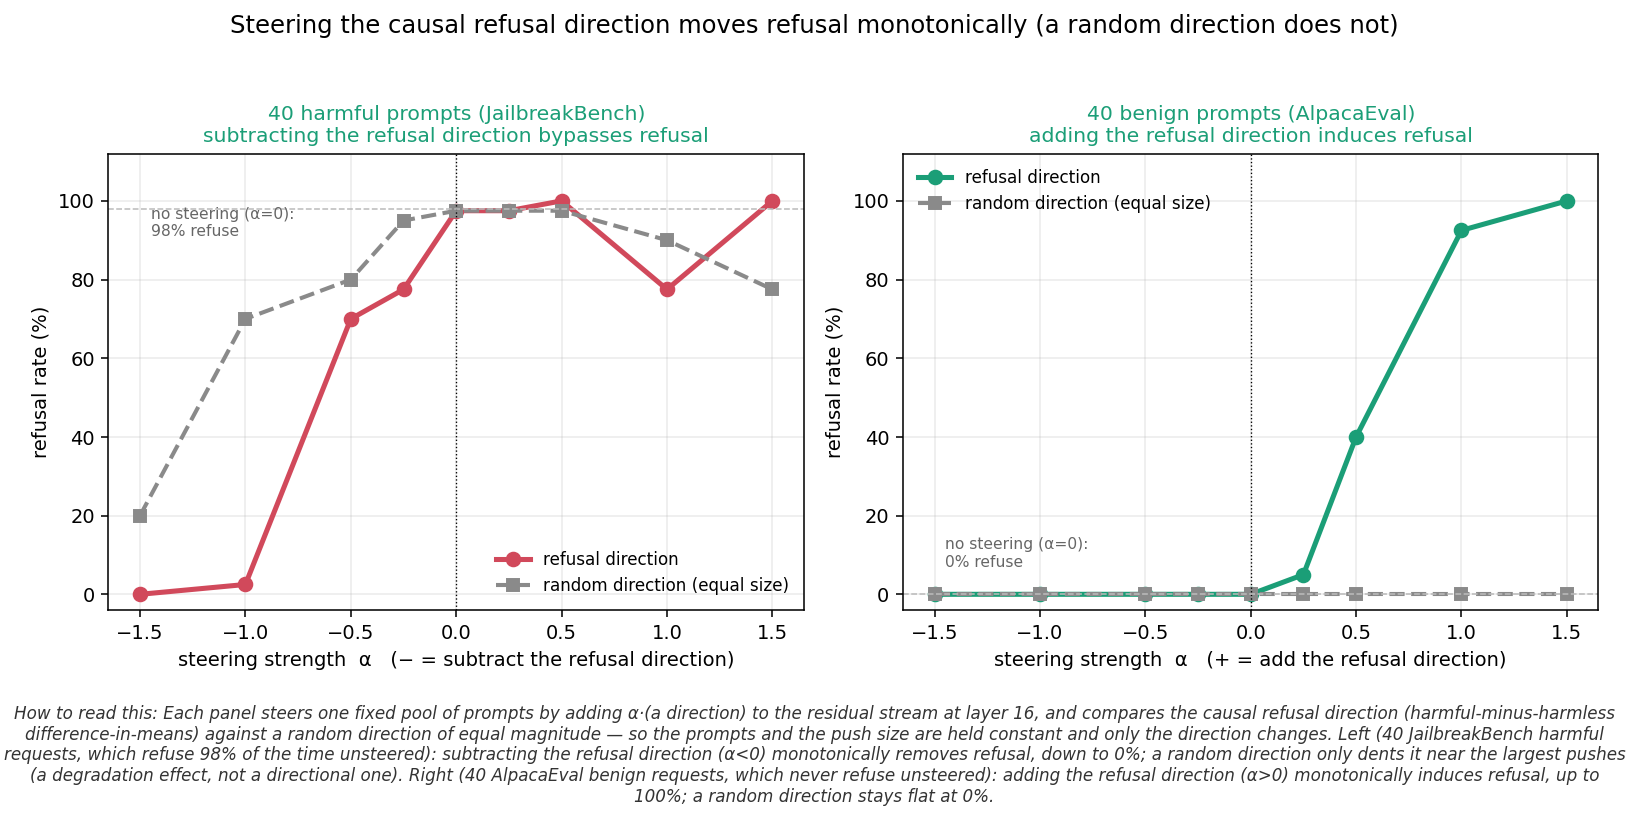
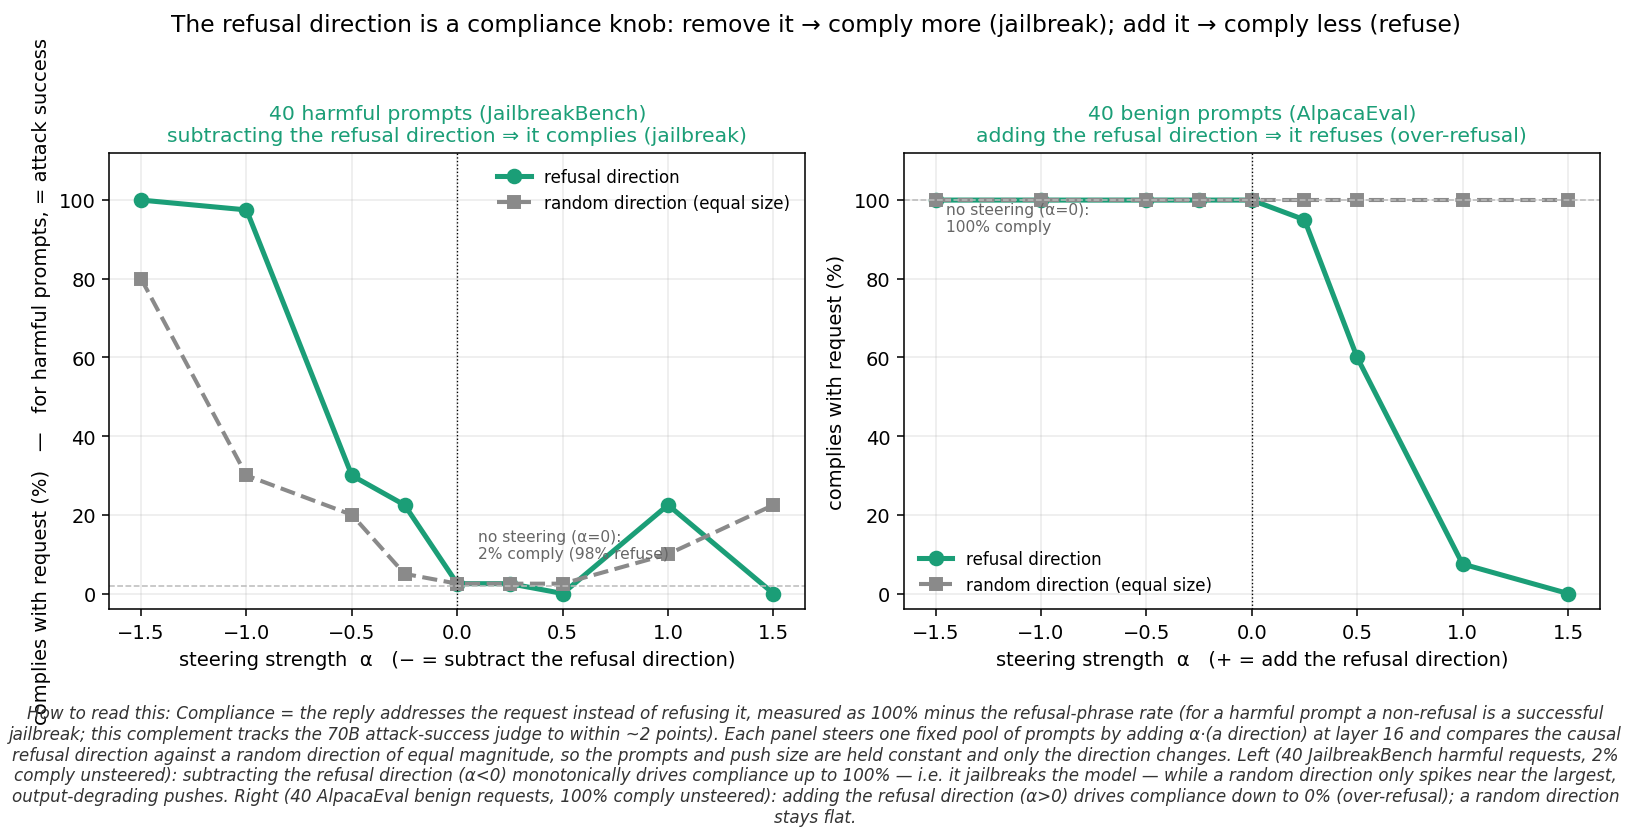
Reframe fig6 as compliance (= 100 − refusal), not refusal rate
Per review: on harmful prompts, subtracting the refusal direction increases
compliance = attack success (the complement of refusal, which matches the 70B
ASR judge to ~2 points). y-axis now "complies with request (%)"; the figure
reads as one rule — the refusal direction is a compliance knob: remove it →
comply more (jailbreak, 2→100%), add it → comply less (over-refuse, 100→0%).

diff --git a/scripts/plot_causal_steering.py b/scripts/plot_causal_steering.py
@@ -91,41 +91,44 @@ def fig_monotonic():
     fig.tight_layout(); fig.savefig(f"{OUT}/fig1_monotonic_vs_ushape.png", dpi=140, bbox_inches="tight"); plt.close(fig)
 
 def fig_refusal_2panel():
-    """Just the two monotonic panels of fig1 (harmful bypass + benign induce)."""
+    """The two monotonic panels, framed as COMPLIANCE (= 100 − refusal)."""
     rows = load("experiments/refusal_alpha_sweep_v1/sweep.jsonl")
     by = defaultdict(list)
     for r in rows: by[(r["set"], r["direction"], r["alpha"])].append(r)
     A = sorted(set(r["alpha"] for r in rows))
-    def rr(s, d): return [rate(by[(s, d, a)], "is_refusal") for a in A]
+    def comp(s, d): return [100 - rate(by[(s, d, a)], "is_refusal") for a in A]  # complies = does not refuse
     fig, (a1, a2) = plt.subplots(1, 2, figsize=(11.5, 4.7))
-    # harmful (bypass)
-    a1.plot(A, rr("harmful", "refusal"), "-o", color=CRIM, lw=2.6, ms=7, label="refusal direction")
-    a1.plot(A, rr("harmful", "random"), "--s", color=GREY, lw=2.1, ms=6, label="random direction (equal size)")
-    a1.axvline(0, color="k", lw=0.7, ls=":"); a1.axhline(98, color="#bbbbbb", lw=0.8, ls="--")
-    a1.text(-1.45, 91, "no steering (α=0):\n98% refuse", fontsize=8, color="#666")
+    # harmful: subtract refusal -> comply (jailbreak)
+    a1.plot(A, comp("harmful", "refusal"), "-o", color=TEAL, lw=2.6, ms=7, label="refusal direction")
+    a1.plot(A, comp("harmful", "random"), "--s", color=GREY, lw=2.1, ms=6, label="random direction (equal size)")
+    a1.axvline(0, color="k", lw=0.7, ls=":"); a1.axhline(2, color="#bbbbbb", lw=0.8, ls="--")
+    a1.text(0.1, 9, "no steering (α=0):\n2% comply (98% refuse)", fontsize=8, color="#666")
     a1.set_xlabel("steering strength  α   (− = subtract the refusal direction)")
-    a1.set_ylabel("refusal rate (%)"); a1.set_ylim(-4, 112)
-    a1.set_title("40 harmful prompts (JailbreakBench)\nsubtracting the refusal direction bypasses refusal", color=TEAL, fontsize=10.5)
-    a1.legend(frameon=False, fontsize=8.6, loc="lower right"); a1.grid(alpha=0.25)
-    # benign (induce)
-    a2.plot(A, rr("benign", "refusal"), "-o", color=TEAL, lw=2.6, ms=7, label="refusal direction")
-    a2.plot(A, rr("benign", "random"), "--s", color=GREY, lw=2.1, ms=6, label="random direction (equal size)")
-    a2.axvline(0, color="k", lw=0.7, ls=":"); a2.axhline(0, color="#bbbbbb", lw=0.8, ls="--")
-    a2.text(-1.45, 7, "no steering (α=0):\n0% refuse", fontsize=8, color="#666")
+    a1.set_ylabel("complies with request (%)   —   for harmful prompts, = attack success")
+    a1.set_ylim(-4, 112)
+    a1.set_title("40 harmful prompts (JailbreakBench)\nsubtracting the refusal direction ⇒ it complies (jailbreak)", color=TEAL, fontsize=10.5)
+    a1.legend(frameon=False, fontsize=8.6, loc="upper right"); a1.grid(alpha=0.25)
+    # benign: add refusal -> stops complying (over-refusal)
+    a2.plot(A, comp("benign", "refusal"), "-o", color=TEAL, lw=2.6, ms=7, label="refusal direction")
+    a2.plot(A, comp("benign", "random"), "--s", color=GREY, lw=2.1, ms=6, label="random direction (equal size)")
+    a2.axvline(0, color="k", lw=0.7, ls=":"); a2.axhline(100, color="#bbbbbb", lw=0.8, ls="--")
+    a2.text(-1.45, 92, "no steering (α=0):\n100% comply", fontsize=8, color="#666")
     a2.set_xlabel("steering strength  α   (+ = add the refusal direction)")
-    a2.set_ylabel("refusal rate (%)"); a2.set_ylim(-4, 112)
-    a2.set_title("40 benign prompts (AlpacaEval)\nadding the refusal direction induces refusal", color=TEAL, fontsize=10.5)
-    a2.legend(frameon=False, fontsize=8.6, loc="upper left"); a2.grid(alpha=0.25)
-    fig.suptitle("Steering the causal refusal direction moves refusal monotonically (a random direction does not)",
-                 fontsize=12.5, y=1.03)
-    cap(fig, "Each panel steers one fixed pool of prompts by adding α·(a direction) to the residual stream at layer "
-             "16, and compares the causal refusal direction (harmful-minus-harmless difference-in-means) against a "
-             "random direction of equal magnitude — so the prompts and the push size are held constant and only the "
-             "direction changes. Left (40 JailbreakBench harmful requests, which refuse 98% of the time unsteered): "
-             "subtracting the refusal direction (α<0) monotonically removes refusal, down to 0%; a random direction "
-             "only dents it near the largest pushes (a degradation effect, not a directional one). Right (40 "
-             "AlpacaEval benign requests, which never refuse unsteered): adding the refusal direction (α>0) "
-             "monotonically induces refusal, up to 100%; a random direction stays flat at 0%.")
+    a2.set_ylabel("complies with request (%)"); a2.set_ylim(-4, 112)
+    a2.set_title("40 benign prompts (AlpacaEval)\nadding the refusal direction ⇒ it refuses (over-refusal)", color=TEAL, fontsize=10.5)
+    a2.legend(frameon=False, fontsize=8.6, loc="lower left"); a2.grid(alpha=0.25)
+    fig.suptitle("The refusal direction is a compliance knob: remove it → comply more (jailbreak); add it → comply less (refuse)",
+                 fontsize=12, y=1.03)
+    cap(fig, "Compliance = the reply addresses the request instead of refusing it, measured as 100% minus the "
+             "refusal-phrase rate (for a harmful prompt a non-refusal is a successful jailbreak; this complement "
+             "tracks the 70B attack-success judge to within ~2 points). Each panel steers one fixed pool of prompts "
+             "by adding α·(a direction) at layer 16 and compares the causal refusal direction against a random "
+             "direction of equal magnitude, so the prompts and push size are held constant and only the direction "
+             "changes. Left (40 JailbreakBench harmful requests, 2% comply unsteered): subtracting the refusal "
+             "direction (α<0) monotonically drives compliance up to 100% — i.e. it jailbreaks the model — while a "
+             "random direction only spikes near the largest, output-degrading pushes. Right (40 AlpacaEval benign "
+             "requests, 100% comply unsteered): adding the refusal direction (α>0) drives compliance down to 0% "
+             "(over-refusal); a random direction stays flat.")
     fig.tight_layout(); fig.savefig(f"{OUT}/fig6_refusal_monotonic_2panel.png", dpi=140, bbox_inches="tight"); plt.close(fig)
 
 # ------------------------------------------------------------------ FIG 2 (refusal gate)